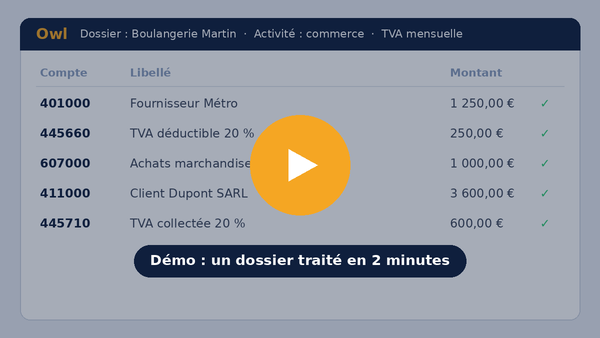
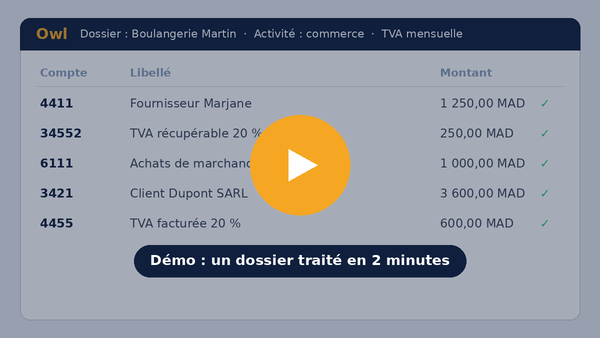
Add Casablanca accounting-firm prospect list and localize kit to Morocco
39 firms with emails published on their own websites (source URL and
date kept per row), plus 5 firms reachable by phone only. Switch the
video thumbnail to CGNC accounts in MAD and add Moroccan legal notes.

Claude-Session: https://claude.ai/code/session_01AwHqFKLWFFpiuM9s6g428L

diff --git a/marketing/emails/assets/make_gifs.py b/marketing/emails/assets/make_gifs.py
@@ -79,11 +79,11 @@ frames[0].save(OUT + "/owl-flow.gif", save_all=True, append_images=frames[1:], d
 
 # ---------- 2. Video thumbnail GIF (600x338) ----------
 ROWS = [
-    ("401000", "Fournisseur Métro", "1 250,00"),
-    ("445660", "TVA déductible 20 %", "250,00"),
-    ("607000", "Achats marchandises", "1 000,00"),
-    ("411000", "Client Dupont SARL", "3 600,00"),
-    ("445710", "TVA collectée 20 %", "600,00"),
+    ("4411", "Fournisseur Marjane", "1 250,00"),
+    ("34552", "TVA récupérable 20 %", "250,00"),
+    ("6111", "Achats de marchandises", "1 000,00"),
+    ("3421", "Client Dupont SARL", "3 600,00"),
+    ("4455", "TVA facturée 20 %", "600,00"),
 ]
 
 
@@ -99,7 +99,7 @@ def thumb_frame(rows_shown, pulse):
     d.text((80 * S, 27 * S), "Dossier : Boulangerie Martin  ·  Activité : commerce  ·  TVA mensuelle", font=font(11 * S), fill=WHITE)
     # table header
     y = 66 * S
-    for x, h in ((40, "Compte"), (130, "Libellé"), (450, "Montant")):
+    for x, h in ((40, "Compte"), (130, "Libellé"), (440, "Montant")):
         d.text((x * S, y), h, font=font(11 * S, True), fill=MUTED)
     d.line([36 * S, y + 20 * S, 564 * S, y + 20 * S], fill=(225, 230, 238), width=S)
     for i in range(rows_shown):
@@ -107,7 +107,7 @@ def thumb_frame(rows_shown, pulse):
         acc, lab, amt = ROWS[i]
         d.text((40 * S, ry), acc, font=font(12 * S, True), fill=NAVY)
         d.text((130 * S, ry), lab, font=font(12 * S), fill=(60, 70, 90))
-        d.text((450 * S, ry), amt + " €", font=font(12 * S), fill=(60, 70, 90))
+        d.text((440 * S, ry), amt + " MAD", font=font(12 * S), fill=(60, 70, 90))
         d.text((540 * S, ry), "✓", font=font(12 * S, True), fill=GREEN)
     # dim overlay + play button
     ov = Image.new("RGBA", (W, H), (15, 31, 61, 95))

diff --git a/marketing/email-strategy.md b/marketing/email-strategy.md
@@ -62,16 +62,17 @@ Keep only one SPF record per domain; merge the `include:`s into it.
 **Turn OFF open tracking and click tracking in the cold tool.** Measure replies, not opens.
 
 ## Building the list
-Sources of accounting firms (*cabinets d'expertise comptable*):
-- National professional directory (in France: the Ordre des experts-comptables annuaire; in Morocco: the OEC Maroc; adapt to your country)
-- Google Maps: "expert-comptable [ville]", "cabinet comptable [ville]"
-- LinkedIn Sales Navigator: title *Expert-comptable associé*, company size 2–50
+The first list is ready: `prospects/cabinets-casablanca.csv` (39 Casablanca firms; see `prospects/README.md`).
 
-Start with **200 firms in one city or region**. Write down per firm: partner name, email, city, size, and one personal detail (recent LinkedIn post, a specialty such as *BTP*, *restauration*, *e-commerce*, hiring a collaborator). That detail powers the first line of email 1.
+To grow it, use the same rule: only addresses a firm publishes on **its own website**, with the source URL and date kept for each one. Good sources:
+- **OEC Maroc** (Ordre des Experts-Comptables) for registered *experts-comptables*
+- **OPCA** member firms (*comptables agréés*): the small fiduciaires that do bookkeeping and VAT returns for TPE/PME are Owl's best fit
+- Telecontact.ma and Google Maps, to find firm names, then the firm's own site for the email
+- LinkedIn (manual only, never scraped), to find the partner's first name for `{{prenom}}`
 
-## Legal (check for your country)
-- **France (CNIL):** B2B email prospecting is allowed without prior consent **if the message relates to the recipient's profession** (Owl for an accountant qualifies), the sender is identified, and there's an easy opt-out. Every email in this kit includes an opt-out line and your company identity.
-- **Other countries** (Morocco, Algeria, Tunisia, Belgium…): rules differ. Check your national data-protection authority before sending.
+## Legal (Morocco)
+- Morocco's personal-data law **09-08** (enforced by the **CNDP**) applies to prospect lists, and the consumer-protection law **31-08** regulates electronic prospecting. Check with the CNDP or a lawyer before scaling.
+- Lowest-risk practice: write only to **generic business addresses the firm publishes** (contact@, info@), keep the source URL and date for each one (the CSV does this), identify ThinkAction clearly, and put an easy opt-out in every email. The Gmail addresses in the list are firms' published addresses but are often the owner's personal inbox, so treat them with extra care.
 - Honor every "non" / "stop" immediately and keep a do-not-contact list.
 
 ## Calendar: align with VAT deadlines

diff --git a/marketing/prospects/README.md b/marketing/prospects/README.md
@@ -1,0 +1,28 @@
+# Prospect list: accounting firms in Casablanca
+
+Built 2026-10-09. Every email address comes from the firm's **own website**: no guessed addresses, no bought lists, no scraped directories. The `source_url` column shows where each one was found.
+
+| File | Contents |
+|---|---|
+| `cabinets-casablanca.csv` | 39 firms with a published email, ready to import into lemlist / Brevo (UTF-8) |
+| `cabinets-casablanca-sans-email.csv` | 5 firms with a website but no published email: use phone or contact form |
+
+## Columns
+- `prenom`, `accroche`: **empty on purpose.** Fill them before sending (partner's first name from the firm's "équipe" page or LinkedIn, plus one real detail for the first line of email 1). Without them, open with "Bonjour," and drop the accroche line.
+- `priority`
+  - **A** (23): small/medium fiduciaires and cabinets doing bookkeeping and VAT returns for TPE/PME. Best fit for Owl: start here.
+  - **B** (10): established expert-comptable firms, more audit/advisory work.
+  - **C** (6): large audit firms, or domiciliation/multi-service businesses. Lower fit.
+- `confidence`
+  - **High**: firm-domain address shown consistently on its site.
+  - **Medium**: Gmail address, older page, or a second address also shown.
+  - **Low**: conflicting spellings or unclear Casablanca presence (see `notes`).
+
+## Before you send
+1. **Verify every address** with a verification tool (ZeroBounce, NeverBounce or Bouncer). Some pages are 1–3 years old. Remove anything marked invalid, and keep bounces under 2%.
+2. Send AMDE Anfa **or** Création Entreprise Casablanca, not both (same group).
+3. Start with priority A, 10–20 per day per mailbox, from your secondary domain (see `../email-strategy.md`).
+4. Keep this file as your record of where each address came from, and remove anyone who replies "non" or "stop".
+
+## Growing the list
+Same rule: only addresses on the firm's own site. Next sources: OEC Maroc and OPCA member lists, Telecontact.ma (find names, then visit each site), and other cities (Rabat, Tanger, Marrakech, Agadir).

diff --git a/.agents/product-marketing.md b/.agents/product-marketing.md
@@ -6,7 +6,8 @@
 - **Company:** ThinkAction (thinkactionn.com)
 - **Founder / sender:** Mostafa Driouiche
 - **Business email:** hosted on Namecheap Private Email (primary domain)
-- **TODO:** country / countries served (France, Morocco, Algeria, Tunisia, Belgium…). This decides the VAT vocabulary and the email-prospecting law that applies.
+- **Market:** Morocco, starting with Casablanca. Chart of accounts: CGNC. VAT: monthly or quarterly returns (déclarations mensuelles / trimestrielles), régime de l'encaissement or des débits.
+- **First prospect list:** `marketing/prospects/cabinets-casablanca.csv`
 
 ## Product: Owl
 Advanced automation for accounting firms (*cabinets comptables / cabinets d'expertise comptable*).

diff --git a/marketing/README.md b/marketing/README.md
@@ -12,5 +12,6 @@ Start with **[email-strategy.md](email-strategy.md)**: the two-track plan, Namec
 | `emails/assets/owl-flow.gif` | Animated 3-step "how Owl works" (600×300) |
 | `emails/assets/preview-video-email.png` | Screenshot of the HTML email |
 | `emails/assets/make_gifs.py` | Regenerates the GIFs: `python3 make_gifs.py <output-dir>` |
+| `prospects/cabinets-casablanca.csv` | 39 Casablanca accounting firms with published emails (see `prospects/README.md`) |
 
 Product and audience context for all marketing skills lives in `../.agents/product-marketing.md`; fill in its TODOs first.

diff --git a/marketing/emails/nurture-sequence-fr.md b/marketing/emails/nurture-sequence-fr.md
@@ -81,7 +81,7 @@ Un calcul rapide pour {{cabinet}} :
 
 [nombre de dossiers TVA] × [heures de saisie par dossier] × [coût horaire d'un collaborateur]
 
-Exemple : 80 dossiers × 1,5 h × 35 € = 4 200 € de saisie par échéance mensuelle.
+Exemple : 80 dossiers × 1,5 h × 150 MAD = 18 000 MAD de saisie par échéance mensuelle.
 
 Owl ne supprime pas le contrôle, mais il retire l'essentiel de la saisie. Sur votre propre chiffre, combien de ces heures pourraient aller au conseil ?
 

diff --git a/marketing/emails/cold-sequence-fr.md b/marketing/emails/cold-sequence-fr.md
@@ -77,7 +77,7 @@ Mostafa
 ```
 Bonjour {{prenom}},
 
-[Nom du cabinet pilote ou « Un cabinet de 6 personnes à Lyon »] traitait [X] dossiers TVA par mois, avec [Y] heures de saisie par échéance.
+[Nom du cabinet pilote ou « Un cabinet de 6 personnes à Casablanca »] traitait [X] dossiers TVA par mois, avec [Y] heures de saisie par échéance.
 
 Avec Owl, l'équipe est passée à [Z] heures, et les collaborateurs ont repris du temps pour le conseil client.
 
